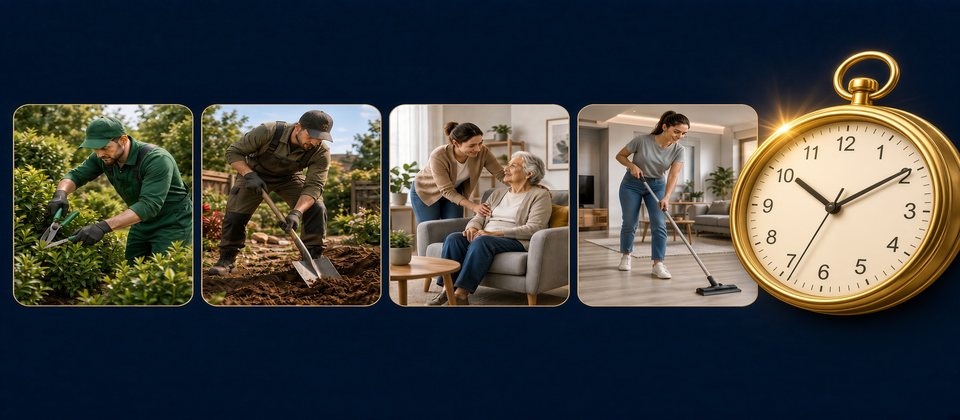
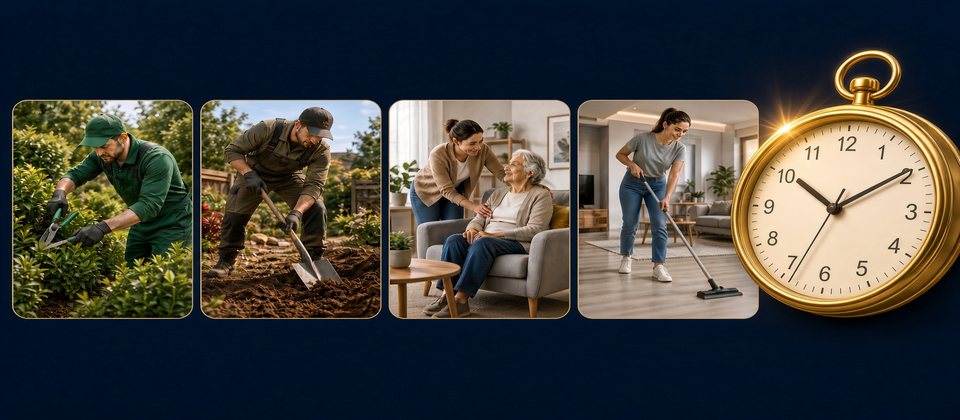
Job de o zi: cadre mai înalte, umplu bleumarinul

Changed region(s): [[0.0, 0.1238, 1.0, 0.7738]]

diff --git a/index.html b/index.html
@@ -17,8 +17,8 @@
 <link href="https://fonts.googleapis.com/css2?family=Fraunces:ital,opsz,wght@0,9..144,600;0,9..144,650;1,9..144,480&family=Source+Sans+3:wght@400;600;700&display=swap" rel="stylesheet">
 <script>
 (function () {
-  if (location.search.indexOf("v=hub23") === -1) {
-    location.replace("./?v=hub23");
+  if (location.search.indexOf("v=hub24") === -1) {
+    location.replace("./?v=hub24");
     return;
   }
   if ("serviceWorker" in navigator) {
